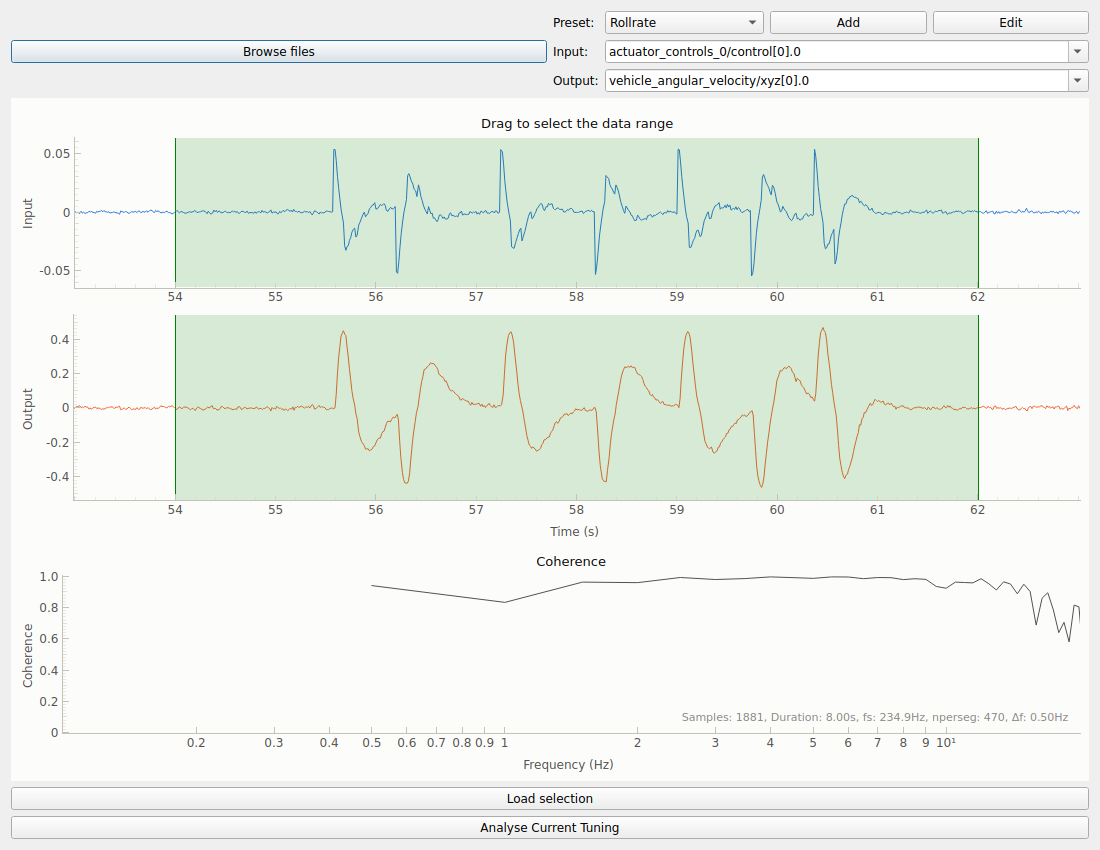
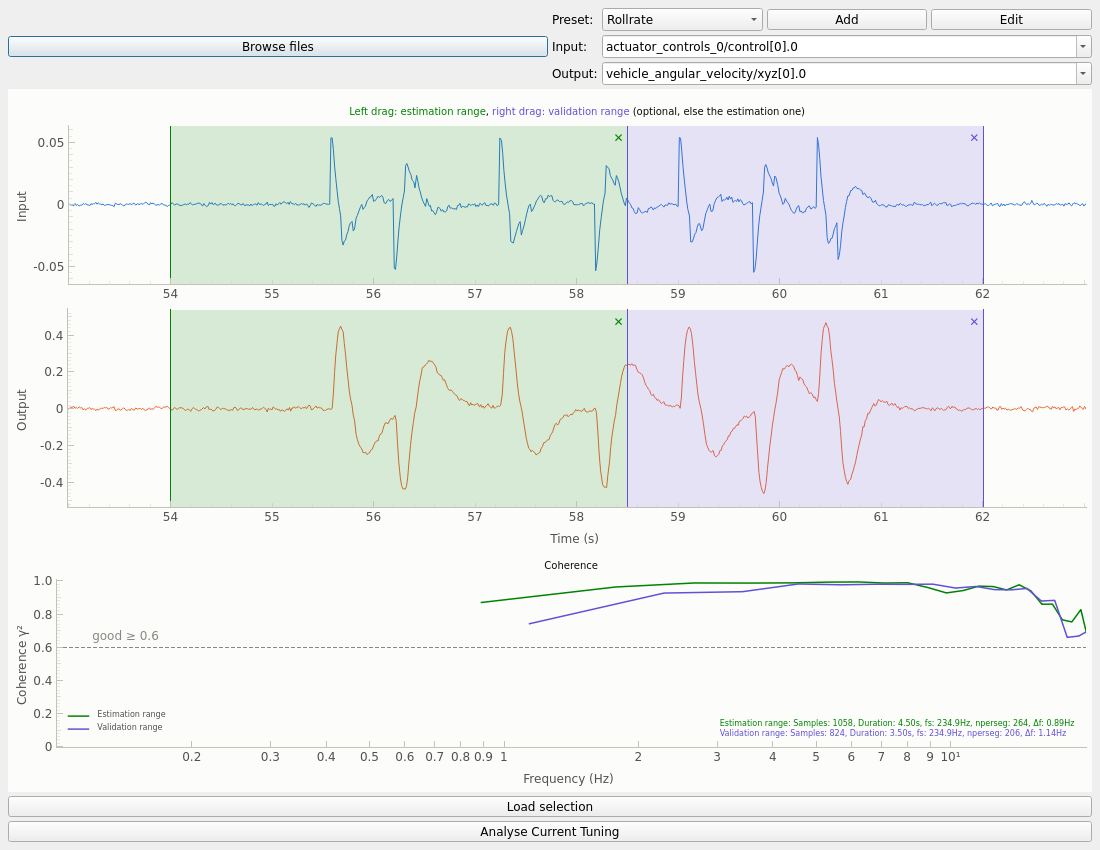
docs(autotune): describe the validation range
Explain how to select and remove the estimation and validation ranges,
and what is judged on the validation range. Update the data selection
and main window screenshots, taken on quadrotor_sitl_jmavsim.ulg with
the estimation range from 54 s to 58.5 s and the validation range from
58.5 s to 62 s.

diff --git a/autotune/CLAUDE.md b/autotune/CLAUDE.md
@@ -47,13 +47,15 @@ any number of poles and zeros) and the feedforward putting P on the measurement;
 checks the gain-form conversion, the loading of the flown controller from a preset
 (and its pre-loading in the main window), the closed-loop replay fit, the prediction
 fit (not spoiled by the drift of an integrator) and the predicted squared error the
-parameter search ranks by (penalizing the parameters that do not improve the prediction);
+parameter search ranks by (penalizing the parameters that do not improve the prediction),
+and the validation range (its own reference and gains, the model judged and the parameter
+search ranking on it);
 `test_pid_gains.py` drives the PID tab's Ideal/Standard ↔ Parallel form selection and
 its parameter units (preset gain scale), the GMVC feedforward cancelling P on the error,
 and that Enter in a field does not press the "Open log" button;
 `test_plots.py`, `test_data_selection.py` and `test_pid_analysis.py` check the data
-shown by the pyqtgraph plots (curves, margins, legends, kept zoom, linked axes, range
-selection, plant model against its measured frequency response, residual correlations). `conftest.py` closes the windows a test leaves open: an open window
+shown by the pyqtgraph plots (curves, margins, legends, kept zoom, linked axes, estimation
+and validation range selection and removal, coherence of both ranges, plant model against its measured frequency response, residual correlations). `conftest.py` closes the windows a test leaves open: an open window
 repainted while its pyqtgraph scene is garbage collected segfaults. These run in CI via
 `.github/workflows/autotune_tests.yml`.
 
@@ -83,7 +85,7 @@ autotune.py (Bode/step response validation) → PX4 gains
 
 - **`plot_style.py`** — Shared pyqtgraph helpers: light dataviz palette, plots whose double-click restores a default range (kept across data updates), corner text overlays, info tooltips over plot titles, hover readout, and X-range linking across tabs.
 
-- **`data_selection_window.py`** — Interactive pyqtgraph window (left drag selects the range) for selecting the maneuver time window and inspecting signal quality/coherence before running identification. Loads input/output presets via `presets.py` and lets the user add/edit/delete them through `preset_dialogs.py`.
+- **`data_selection_window.py`** — Interactive pyqtgraph window (left drag selects the estimation range, right drag the optional validation range, ✕ removes a range) for selecting the maneuver time window and inspecting signal quality/coherence before running identification. Loads input/output presets via `presets.py` and lets the user add/edit/delete them through `preset_dialogs.py`.
 
 - **`presets.py`** — Loads/saves input/output presets from the user-editable `presets.yaml` (next to the code). Seeds the file with `DEFAULT_PRESETS` on first run; falls back to defaults if the file is missing or unparseable. A preset can also describe the flown controller (reference signal, gain parameter names, ideal/parallel form, PID options), which pre-loads the PID and drives the closed-loop replay fit.
 

diff --git a/autotune/README.md b/autotune/README.md
@@ -76,13 +76,15 @@ Perform these maneuvers separately for each axis: roll, pitch, and yaw.
 
 #### Window selection:
 
-1. Select the portion of the log where the maneuver occurred.
+1. Select the portion of the log where the maneuver occurred with a left drag: the estimation range, which the model is fitted to.
 2. Ensure the window starts from level flight and covers the full maneuver.
-3. (Experimental) Use the coherence plot to check whether your input-output data have a strong enough linear relationship at the desired frequencies. For fixed-wings: \
+3. (Optional) Select another maneuver with a right drag: the validation range. The model is then judged on data it was not fitted to (fits, residuals, measured plant and *Find parameters*): a model that fits the noise of the estimation range does not fit other data. Without a validation range, the model is judged on the estimation range.
+4. The ✕ in the corner of a range removes it.
+5. (Experimental) Use the coherence plot to check whether your input-output data have a strong enough linear relationship at the desired frequencies. It shows the coherence of each range in its color. For fixed-wings: \
    i. We are interested in frequencies between 0.5-10Hz. \
    ii. Values > 0.6 are sufficient. \
    iii. If the coherence function is oscillating dramatically, the identified model may be unreliable at those frequencies.
-4. Once you have identified the window, load the selection into the tool.
+6. Once you have identified the window, load the selection into the tool.
 
 <table>
   <tr>
@@ -109,10 +111,16 @@ Perform these maneuvers separately for each axis: roll, pitch, and yaw.
    a longer horizon). A longer horizon turns the prediction into the drifting simulation.
    With a preset that has the flown gains, the closed-loop fit replays the logged reference
    through the model and these gains.
+   With a validation range, the fits, the model curve, the residuals and the measured plant
+   on the Bode are those of the validation range.
    *Find parameters* picks the orders of least predicted squared error: the mean squared
    error of the prediction plus, for each parameter of the model, the output variance divided
    by the number of samples (Morelli's criterion). A higher order must improve the prediction
    by more than this share of the output variance, otherwise it only fits the noise.
+   With a validation range, it picks instead the orders of least mean squared error of the
+   prediction of the validation range (cross-validation): a parameter that only fits the
+   noise of the estimation range does not predict the validation range, so it needs no
+   penalty.
 2. If not, adjust the system order (number of poles and zeros) and/or delay parameters.
 3. Verify that the system is minimum-phase (i.e., zeroes lie inside the unit circle).
 
